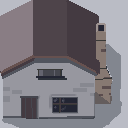
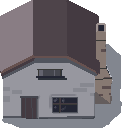
Correct scaling and colliders for objects

Changed region(s): [[0.5312, 0.0, 1.0, 1.0], [0.0, 0.0, 0.25, 0.125], [0.0, 0.5625, 0.1562, 1.0]]

diff --git a/core/src/infinityx/lunarhaze/LevelParser.java b/core/src/infinityx/lunarhaze/LevelParser.java
@@ -141,10 +141,9 @@ public class LevelParser {
         SceneObject object = new SceneObject(objPos.getFloat(0), objPos.getFloat(1));
         parseGameObject(object, directory, json);
 
-        int objScale = objectFormat.getInt("scale");
+        float objScale = objectFormat.getFloat("scale");
 
         object.setScale(objScale, objScale);
-
         object.activatePhysics(container.getWorld());
 
         System.out.printf("finished parsing %s!\n", objectFormat.get("type").asString());
@@ -160,7 +159,7 @@ public class LevelParser {
         object.setDensity(json.get("density").asFloat());
         object.setFriction(json.get("friction").asFloat());
         object.setRestitution(json.get("restitution").asFloat());
-        if (!json.hasChild("speed")) {
+        if (!json.has("speed")) {
             object.setSpeed(0);
         } else {
             object.setSpeed(json.get("speed").asFloat());
@@ -170,9 +169,9 @@ public class LevelParser {
         object.setTexture(directory.getEntry(texInfo.get("name").asString(), FilmStrip.class));
         int[] texOrigin = texInfo.get("origin").asIntArray();
         object.setOrigin(texOrigin[0], texOrigin[1]);
-        if (texInfo.hasChild("positioned")) {
+        if (texInfo.has("positioned")) {
             object.setPositioned(
-                    texInfo.getString("positioned") == "bottom-left" ?
+                    texInfo.getString("positioned").equals("bottom-left") ?
                             BoxObstacle.POSITIONED.BOTTOM_LEFT : BoxObstacle.POSITIONED.CENTERED
             );
         }

diff --git a/core/src/infinityx/lunarhaze/GameObject.java b/core/src/infinityx/lunarhaze/GameObject.java
@@ -93,14 +93,14 @@ public abstract class GameObject extends BoxObstacle implements Drawable {
     }
 
     /**
-     * @return The movement speed of this werewolf
+     * @return The movement speed of this object
      */
     public float getSpeed() {
         return speed;
     }
 
     /**
-     * Set the movement speed of this werewolf
+     * Set the movement speed of this object
      */
     public void setSpeed(float speed) {
         this.speed = speed;

diff --git a/core/src/infinityx/lunarhaze/physics/BoxObstacle.java b/core/src/infinityx/lunarhaze/physics/BoxObstacle.java
@@ -113,6 +113,7 @@ public class BoxObstacle extends SimpleObstacle {
      * @param s_y scale y_axis
      */
     public void setScale(float s_x, float s_y) {
+        scale.set(s_x, s_y);
         dimension.set(getWidth() * s_x, getHeight() * s_y);
         resize(getWidth(), getHeight());
         createFixtures();
